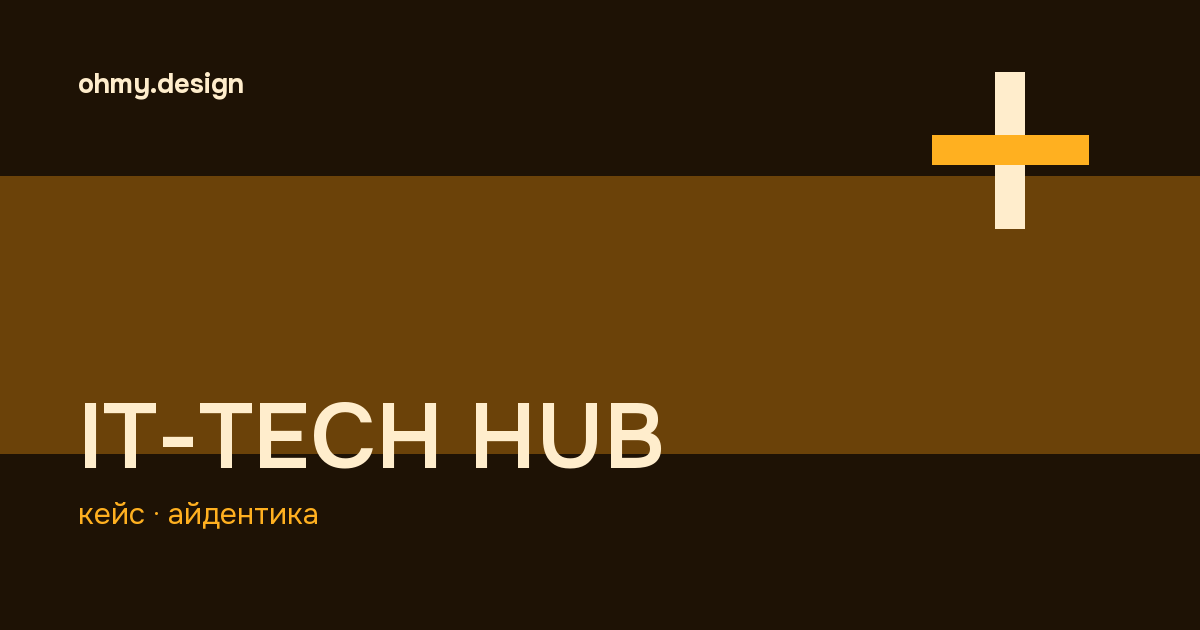
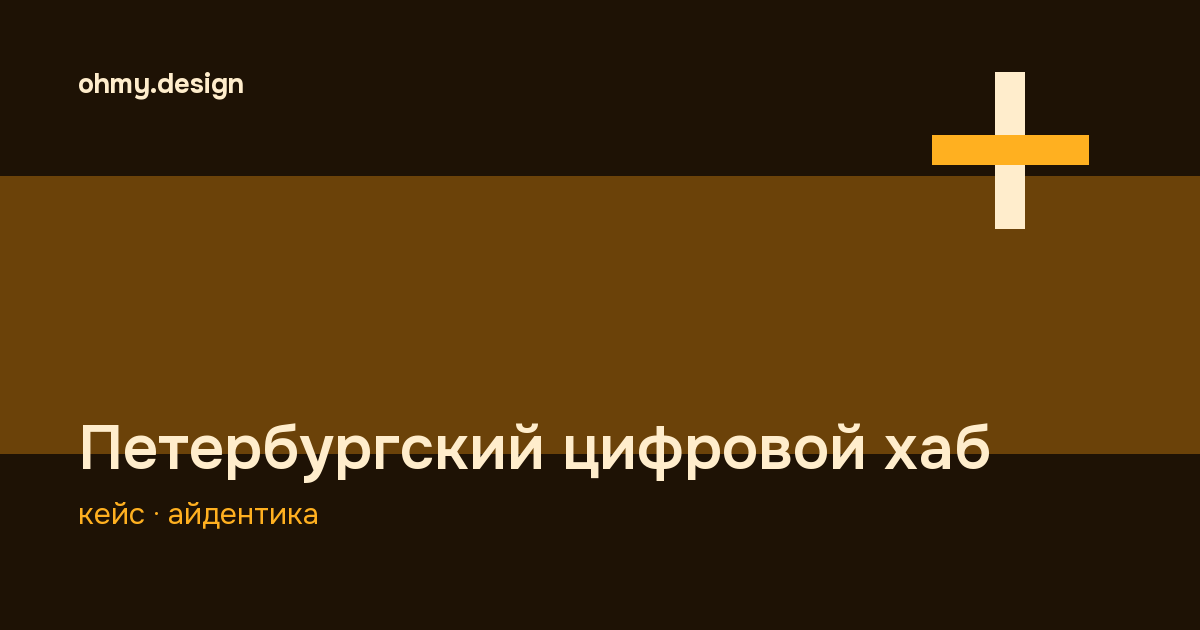
Кейс цифрового хаба: реальные фото с площадки, переименование в Петербургский цифровой хаб
IT-TECH HUB переименован в Петербургский цифровой хаб везде на сайте — тот же
форум сменил имя в 2026 году. Добавлена секция «носители» с пятью фото
с площадки (пресс-волл, навигация, панельная дискуссия, экран трансляции),
итог кейса дополнен подтверждённым фактом: стиль пережил смену имени форума
без пересборки.

Changed region(s): [[0.0617, 0.6333, 0.8325, 0.7841]]

diff --git a/исходники/ohmy-case-it-tech-hub.html b/исходники/ohmy-case-it-tech-hub.html
@@ -21,7 +21,7 @@
 
 <meta charset="utf-8">
 <meta name="viewport" content="width=device-width, initial-scale=1">
-<title>IT-TECH HUB — логотип и фирменный стиль B2B-форума</title>
+<title>Петербургский цифровой хаб — логотип и фирменный стиль B2B-форума</title>
 <meta name="description" content="Логотип и фирменный стиль Петербургского цифрового хаба — B2B-форума для лидеров цифровой трансформации. Кейс студии ohmy.design.">
 <link rel="preconnect" href="https://fonts.googleapis.com">
 <link rel="preconnect" href="https://fonts.gstatic.com" crossorigin>
@@ -731,15 +731,15 @@ footer.site-foot{display:block}
 <meta property="og:type" content="website">
 <meta property="og:site_name" content="ohmy.design">
 <meta property="og:locale" content="ru_RU">
-<meta property="og:title" content="IT-TECH HUB — логотип и фирменный стиль B2B-форума">
+<meta property="og:title" content="Петербургский цифровой хаб — логотип и фирменный стиль B2B-форума">
 <meta property="og:description" content="Логотип и фирменный стиль Петербургского цифрового хаба — B2B-форума для лидеров цифровой трансформации. Кейс студии ohmy.design.">
 <meta property="og:url" content="https://ohmy.design/projects/it-tech-hub">
 <meta property="og:image" content="https://ohmy.design/og/projects-it-tech-hub.png">
 <meta property="og:image:width" content="1200">
 <meta property="og:image:height" content="630">
-<meta property="og:image:alt" content="IT-TECH HUB — логотип и фирменный стиль B2B-форума">
+<meta property="og:image:alt" content="Петербургский цифровой хаб — логотип и фирменный стиль B2B-форума">
 <meta name="twitter:card" content="summary_large_image">
-<meta name="twitter:title" content="IT-TECH HUB — логотип и фирменный стиль B2B-форума">
+<meta name="twitter:title" content="Петербургский цифровой хаб — логотип и фирменный стиль B2B-форума">
 <meta name="twitter:description" content="Логотип и фирменный стиль Петербургского цифрового хаба — B2B-форума для лидеров цифровой трансформации. Кейс студии ohmy.design.">
 <meta name="twitter:image" content="https://ohmy.design/og/projects-it-tech-hub.png">
 <link rel="icon" href="/favicon.svg" type="image/svg+xml">
@@ -780,13 +780,13 @@ footer.site-foot{display:block}
 <div class="menu" id="menu"></div>
 
 <header class="cover">
-  <img src="img/lib/43484f614db8f293893f-3731.jpg" alt="IT-TECH HUB">
+  <img src="img/lib/43484f614db8f293893f-3731.jpg" alt="Петербургский цифровой хаб">
   <div class="cover-in">
     <a class="crumb" href="ohmy-projects.html">← все проекты</a>
-    <h1>IT-TECH&nbsp;HUB</h1>
+    <h1>Петербургский цифровой&nbsp;хаб</h1>
     <div class="cover-tags">
       <span class="tag on">айдентика</span>
-      <span class="tag">2025</span>
+      <span class="tag">2025–2026</span>
     </div>
   </div>
 </header>
@@ -795,7 +795,7 @@ footer.site-foot{display:block}
   <div class="fact"><span>клиент</span><b>Экспофорум, Петербургский цифровой&nbsp;хаб</b></div>
   <div class="fact"><span>направление</span><b>Айдентика</b></div>
   <div class="fact"><span>роль студии</span><b>Знак, стиль, носители</b></div>
-  <div class="fact"><span>особенность</span><b>Стиль живёт год: от&nbsp;анонса до&nbsp;пост-релиза</b></div>
+  <div class="fact"><span>особенность</span><b>Форум сменил имя в&nbsp;2026&nbsp;— знак и&nbsp;стиль перешли без&nbsp;пересборки</b></div>
 </div>
 
 <section id="task">
@@ -835,16 +835,31 @@ footer.site-foot{display:block}
   </div>
 </section>
 
+<section id="shots">
+  <div class="sec-head rv">
+    <div><span class="sec-idx">03 — носители</span><h2 class="sec-title">как это живёт</h2></div>
+    <span class="mono">5 с площадки</span>
+  </div>
+
+  <div class="frames">
+    <figure class="frame rv full"><div class="frame-i"><img src="img/cases/it-tech-hub/hall.jpg" alt="Пресс-волл «Петербургского цифрового хаба» на главной сцене" loading="lazy"></div><figcaption>Пресс-волл на главной сцене<i>фото</i></figcaption></figure>
+    <figure class="frame rv"><div class="frame-i"><img src="img/cases/it-tech-hub/signage.jpg" alt="Указатель «Центр деловых контактов» с логотипом хаба" loading="lazy"></div><figcaption>Навигационная стойка на входе<i>фото</i></figcaption></figure>
+    <figure class="frame rv"><div class="frame-i"><img src="img/cases/it-tech-hub/wayfinding.jpg" alt="Табличка навигации к залу Е6 с логотипом хаба" loading="lazy"></div><figcaption>Указатель к залу<i>фото</i></figcaption></figure>
+    <figure class="frame rv"><div class="frame-i"><img src="img/cases/it-tech-hub/session.jpg" alt="Панельная дискуссия на фоне пресс-волла форума" loading="lazy"></div><figcaption>Панельная дискуссия<i>фото</i></figcaption></figure>
+    <figure class="frame rv"><div class="frame-i"><img src="img/cases/it-tech-hub/screen.jpg" alt="Экран трансляции с темой круглого стола" loading="lazy"></div><figcaption>Экран трансляции в зале<i>фото</i></figcaption></figure>
+  </div>
+</section>
+
 <section id="result">
   <div class="sec-head rv">
-    <div><span class="sec-idx">03 — итог</span><h2 class="sec-title">результат</h2></div>
+    <div><span class="sec-idx">04 — итог</span><h2 class="sec-title">результат</h2></div>
     <span class="mono">что можно проверить</span>
   </div>
 
   <div class="outcome rv">
     <div><span>01</span><div>Знак читается и&nbsp;в&nbsp;иконке рассылки, и&nbsp;на&nbsp;баннере во&nbsp;всю стену площадки.</div></div>
     <div><span>02</span><div>Носители собраны системой: навигация, бейджи, стенды, шаблоны документов.</div></div>
-    <div><span>03</span><div>Стиль переходит с&nbsp;года на&nbsp;год&nbsp;— меняется только&nbsp;дата.</div></div>
+    <div><span>03</span><div>В&nbsp;2026&nbsp;форум сменил имя на&nbsp;«Петербургский цифровой хаб»&nbsp;— знак и&nbsp;стиль перешли без&nbsp;пересборки.</div></div>
   </div>
 </section>
 
@@ -863,7 +878,7 @@ footer.site-foot{display:block}
 
 <section class="cta" id="cta">
   <div class="sec-head rv">
-    <div><span class="sec-idx">04 — связь</span><h2 class="sec-title">будем на связи</h2></div>
+    <div><span class="sec-idx">05 — связь</span><h2 class="sec-title">будем на связи</h2></div>
     <span class="mono">похожая задача?</span>
   </div>
   <div class="cta-contacts rv">

diff --git a/docs/projects/it-tech-hub/index.html b/docs/projects/it-tech-hub/index.html
@@ -21,7 +21,7 @@
 
 <meta charset="utf-8">
 <meta name="viewport" content="width=device-width, initial-scale=1">
-<title>IT-TECH HUB — логотип и фирменный стиль B2B-форума</title>
+<title>Петербургский цифровой хаб — логотип и фирменный стиль B2B-форума</title>
 <meta name="description" content="Логотип и фирменный стиль Петербургского цифрового хаба — B2B-форума для лидеров цифровой трансформации. Кейс студии ohmy.design.">
 <link rel="preconnect" href="https://fonts.googleapis.com">
 <link rel="preconnect" href="https://fonts.gstatic.com" crossorigin>
@@ -731,15 +731,15 @@ footer.site-foot{display:block}
 <meta property="og:type" content="website">
 <meta property="og:site_name" content="ohmy.design">
 <meta property="og:locale" content="ru_RU">
-<meta property="og:title" content="IT-TECH HUB — логотип и фирменный стиль B2B-форума">
+<meta property="og:title" content="Петербургский цифровой хаб — логотип и фирменный стиль B2B-форума">
 <meta property="og:description" content="Логотип и фирменный стиль Петербургского цифрового хаба — B2B-форума для лидеров цифровой трансформации. Кейс студии ohmy.design.">
 <meta property="og:url" content="https://ohmy.design/projects/it-tech-hub">
 <meta property="og:image" content="https://ohmy.design/og/projects-it-tech-hub.png">
 <meta property="og:image:width" content="1200">
 <meta property="og:image:height" content="630">
-<meta property="og:image:alt" content="IT-TECH HUB — логотип и фирменный стиль B2B-форума">
+<meta property="og:image:alt" content="Петербургский цифровой хаб — логотип и фирменный стиль B2B-форума">
 <meta name="twitter:card" content="summary_large_image">
-<meta name="twitter:title" content="IT-TECH HUB — логотип и фирменный стиль B2B-форума">
+<meta name="twitter:title" content="Петербургский цифровой хаб — логотип и фирменный стиль B2B-форума">
 <meta name="twitter:description" content="Логотип и фирменный стиль Петербургского цифрового хаба — B2B-форума для лидеров цифровой трансформации. Кейс студии ohmy.design.">
 <meta name="twitter:image" content="https://ohmy.design/og/projects-it-tech-hub.png">
 <link rel="icon" href="/favicon.svg" type="image/svg+xml">
@@ -780,13 +780,13 @@ footer.site-foot{display:block}
 <div class="menu" id="menu"></div>
 
 <header class="cover">
-  <img src="/img/lib/43484f614db8f293893f-3731.jpg" alt="IT-TECH HUB">
+  <img src="/img/lib/43484f614db8f293893f-3731.jpg" alt="Петербургский цифровой хаб">
   <div class="cover-in">
     <a class="crumb" href="/projects/">← все проекты</a>
-    <h1>IT-TECH&nbsp;HUB</h1>
+    <h1>Петербургский цифровой&nbsp;хаб</h1>
     <div class="cover-tags">
       <span class="tag on">айдентика</span>
-      <span class="tag">2025</span>
+      <span class="tag">2025–2026</span>
     </div>
   </div>
 </header>
@@ -795,7 +795,7 @@ footer.site-foot{display:block}
   <div class="fact"><span>клиент</span><b>Экспофорум, Петербургский цифровой&nbsp;хаб</b></div>
   <div class="fact"><span>направление</span><b>Айдентика</b></div>
   <div class="fact"><span>роль студии</span><b>Знак, стиль, носители</b></div>
-  <div class="fact"><span>особенность</span><b>Стиль живёт год: от&nbsp;анонса до&nbsp;пост-релиза</b></div>
+  <div class="fact"><span>особенность</span><b>Форум сменил имя в&nbsp;2026&nbsp;— знак и&nbsp;стиль перешли без&nbsp;пересборки</b></div>
 </div>
 
 <section id="task">
@@ -835,16 +835,31 @@ footer.site-foot{display:block}
   </div>
 </section>
 
+<section id="shots">
+  <div class="sec-head rv">
+    <div><span class="sec-idx">03 — носители</span><h2 class="sec-title">как это живёт</h2></div>
+    <span class="mono">5 с площадки</span>
+  </div>
+
+  <div class="frames">
+    <figure class="frame rv full"><div class="frame-i"><img src="/img/cases/it-tech-hub/hall.jpg" alt="Пресс-волл «Петербургского цифрового хаба» на главной сцене" loading="lazy"></div><figcaption>Пресс-волл на главной сцене<i>фото</i></figcaption></figure>
+    <figure class="frame rv"><div class="frame-i"><img src="/img/cases/it-tech-hub/signage.jpg" alt="Указатель «Центр деловых контактов» с логотипом хаба" loading="lazy"></div><figcaption>Навигационная стойка на входе<i>фото</i></figcaption></figure>
+    <figure class="frame rv"><div class="frame-i"><img src="/img/cases/it-tech-hub/wayfinding.jpg" alt="Табличка навигации к залу Е6 с логотипом хаба" loading="lazy"></div><figcaption>Указатель к залу<i>фото</i></figcaption></figure>
+    <figure class="frame rv"><div class="frame-i"><img src="/img/cases/it-tech-hub/session.jpg" alt="Панельная дискуссия на фоне пресс-волла форума" loading="lazy"></div><figcaption>Панельная дискуссия<i>фото</i></figcaption></figure>
+    <figure class="frame rv"><div class="frame-i"><img src="/img/cases/it-tech-hub/screen.jpg" alt="Экран трансляции с темой круглого стола" loading="lazy"></div><figcaption>Экран трансляции в зале<i>фото</i></figcaption></figure>
+  </div>
+</section>
+
 <section id="result">
   <div class="sec-head rv">
-    <div><span class="sec-idx">03 — итог</span><h2 class="sec-title">результат</h2></div>
+    <div><span class="sec-idx">04 — итог</span><h2 class="sec-title">результат</h2></div>
     <span class="mono">что можно проверить</span>
   </div>
 
   <div class="outcome rv">
     <div><span>01</span><div>Знак читается и&nbsp;в&nbsp;иконке рассылки, и&nbsp;на&nbsp;баннере во&nbsp;всю стену площадки.</div></div>
     <div><span>02</span><div>Носители собраны системой: навигация, бейджи, стенды, шаблоны документов.</div></div>
-    <div><span>03</span><div>Стиль переходит с&nbsp;года на&nbsp;год&nbsp;— меняется только&nbsp;дата.</div></div>
+    <div><span>03</span><div>В&nbsp;2026&nbsp;форум сменил имя на&nbsp;«Петербургский цифровой хаб»&nbsp;— знак и&nbsp;стиль перешли без&nbsp;пересборки.</div></div>
   </div>
 </section>
 
@@ -863,7 +878,7 @@ footer.site-foot{display:block}
 
 <section class="cta" id="cta">
   <div class="sec-head rv">
-    <div><span class="sec-idx">04 — связь</span><h2 class="sec-title">будем на связи</h2></div>
+    <div><span class="sec-idx">05 — связь</span><h2 class="sec-title">будем на связи</h2></div>
     <span class="mono">похожая задача?</span>
   </div>
   <div class="cta-contacts rv">

diff --git a/исходники/ohmy-site.html b/исходники/ohmy-site.html
@@ -852,8 +852,8 @@ footer.site-foot{display:block}
       <div class="proj-info"><h3>АБП2Б</h3><span class="proj-tag">креатив + веб</span></div></a>
     <a class="proj rv" href="ohmy-case-evromed.html"><img src="img/lib/421009901-6139.jpg" alt="ЕвроМед">
       <div class="proj-info"><h3>ЕвроМед</h3><span class="proj-tag">веб + айдентика</span></div></a>
-    <a class="proj rv" href="ohmy-case-it-tech-hub.html"><img src="img/lib/43484f614db8f293893f-3731.jpg" alt="IT Hub">
-      <div class="proj-info"><h3>ЦДК · IT Hub</h3><span class="proj-tag">веб</span></div></a>
+    <a class="proj rv" href="ohmy-case-it-tech-hub.html"><img src="img/lib/43484f614db8f293893f-3731.jpg" alt="Петербургский цифровой хаб">
+      <div class="proj-info"><h3>ЦДК · Цифровой хаб</h3><span class="proj-tag">веб</span></div></a>
     <a class="proj rv" href="ohmy-case-tish.html"><img src="img/lib/49060229-3435.jpg" alt="TISH">
       <div class="proj-info"><h3>TISH</h3><span class="proj-tag">арт-дирекшн</span></div></a>
     <a class="proj rv" href="ohmy-case-urbex.html"><img src="img/lib/18217832-6438.jpg" alt="URBEX">

diff --git a/docs/index.html b/docs/index.html
@@ -852,8 +852,8 @@ footer.site-foot{display:block}
       <div class="proj-info"><h3>АБП2Б</h3><span class="proj-tag">креатив + веб</span></div></a>
     <a class="proj rv" href="/projects/evromed/"><img src="/img/lib/421009901-6139.jpg" alt="ЕвроМед">
       <div class="proj-info"><h3>ЕвроМед</h3><span class="proj-tag">веб + айдентика</span></div></a>
-    <a class="proj rv" href="/projects/it-tech-hub/"><img src="/img/lib/43484f614db8f293893f-3731.jpg" alt="IT Hub">
-      <div class="proj-info"><h3>ЦДК · IT Hub</h3><span class="proj-tag">веб</span></div></a>
+    <a class="proj rv" href="/projects/it-tech-hub/"><img src="/img/lib/43484f614db8f293893f-3731.jpg" alt="Петербургский цифровой хаб">
+      <div class="proj-info"><h3>ЦДК · Цифровой хаб</h3><span class="proj-tag">веб</span></div></a>
     <a class="proj rv" href="/projects/tish/"><img src="/img/lib/49060229-3435.jpg" alt="TISH">
       <div class="proj-info"><h3>TISH</h3><span class="proj-tag">арт-дирекшн</span></div></a>
     <a class="proj rv" href="/projects/urbex/"><img src="/img/lib/18217832-6438.jpg" alt="URBEX">

diff --git a/исходники/ohmy-brand.html b/исходники/ohmy-brand.html
@@ -943,8 +943,8 @@ footer.site-foot{display:block}
 
   <div class="cases">
     <a class="case-c rv" href="ohmy-projects.html">
-      <div class="case-img"><img loading="lazy" src="img/lib/43484f614db8f293893f-3731.jpg" alt="IT-TECH HUB"></div>
-      <h3>IT-TECH HUB</h3>
+      <div class="case-img"><img loading="lazy" src="img/lib/43484f614db8f293893f-3731.jpg" alt="Петербургский цифровой хаб"></div>
+      <h3>Петербургский цифровой хаб</h3>
       <p>Логотип и фирменный стиль B2B-форума для лидеров цифровой трансформации</p></a>
     <a class="case-c rv" href="ohmy-projects.html">
       <div class="case-img"><img loading="lazy" src="img/lib/cover-slide-1-6333.jpg" alt="ГЦК"></div>

diff --git a/docs/brand/index.html b/docs/brand/index.html
@@ -943,8 +943,8 @@ footer.site-foot{display:block}
 
   <div class="cases">
     <a class="case-c rv" href="/projects/">
-      <div class="case-img"><img loading="lazy" src="/img/lib/43484f614db8f293893f-3731.jpg" alt="IT-TECH HUB"></div>
-      <h3>IT-TECH HUB</h3>
+      <div class="case-img"><img loading="lazy" src="/img/lib/43484f614db8f293893f-3731.jpg" alt="Петербургский цифровой хаб"></div>
+      <h3>Петербургский цифровой хаб</h3>
       <p>Логотип и фирменный стиль B2B-форума для лидеров цифровой трансформации</p></a>
     <a class="case-c rv" href="/projects/">
       <div class="case-img"><img loading="lazy" src="/img/lib/cover-slide-1-6333.jpg" alt="ГЦК"></div>

diff --git a/исходники/ohmy-projects.html b/исходники/ohmy-projects.html
@@ -740,7 +740,7 @@ const PROJECTS = [
  d:'Редизайн сайта, логотип и фирменный стиль сети многопрофильных медицинских центров',
  img:'img/lib/421009901-6139.jpg',
  cs:'ohmy-case-evromed.html'},
-{y:2025,n:'IT-TECH HUB',s:'event',t:['brand'],
+{y:2025,n:'Петербургский цифровой хаб',s:'event',t:['brand'],
  d:'Логотип и фирменный стиль B2B-форума для лидеров цифровой трансформации',
  img:'img/lib/43484f614db8f293893f-3731.jpg',
  cs:'ohmy-case-it-tech-hub.html'},

diff --git a/docs/projects/index.html b/docs/projects/index.html
@@ -740,7 +740,7 @@ const PROJECTS = [
  d:'Редизайн сайта, логотип и фирменный стиль сети многопрофильных медицинских центров',
  img:'/img/lib/421009901-6139.jpg',
  cs:'/projects/evromed/'},
-{y:2025,n:'IT-TECH HUB',s:'event',t:['brand'],
+{y:2025,n:'Петербургский цифровой хаб',s:'event',t:['brand'],
  d:'Логотип и фирменный стиль B2B-форума для лидеров цифровой трансформации',
  img:'/img/lib/43484f614db8f293893f-3731.jpg',
  cs:'/projects/it-tech-hub/'},

diff --git a/docs/projects/evromed/index.html b/docs/projects/evromed/index.html
@@ -870,7 +870,7 @@ footer.site-foot{display:block}
   <img src="/img/lib/43484f614db8f293893f-3731.jpg" alt="" loading="lazy">
   <div class="next-in">
     <span class="mono">следующий проект</span>
-    <h2>IT-TECH HUB <span class="next-arrow">↗</span></h2>
+    <h2>Петербургский цифровой хаб <span class="next-arrow">↗</span></h2>
   </div>
 </a>
 

diff --git a/исходники/ohmy-case-evromed.html b/исходники/ohmy-case-evromed.html
@@ -870,7 +870,7 @@ footer.site-foot{display:block}
   <img src="img/lib/43484f614db8f293893f-3731.jpg" alt="" loading="lazy">
   <div class="next-in">
     <span class="mono">следующий проект</span>
-    <h2>IT-TECH HUB <span class="next-arrow">↗</span></h2>
+    <h2>Петербургский цифровой хаб <span class="next-arrow">↗</span></h2>
   </div>
 </a>
 

diff --git a/cases.py b/cases.py
@@ -197,16 +197,16 @@ CASES = [
  'tail':'Сайт собран так, чтобы клиника могла добавлять направления и врачей сама — '
         'без пересборки структуры.'},
 
-{'slug':'it-tech-hub','n':'IT-TECH HUB','y':2025,'s':'event','t':['brand'],
+{'slug':'it-tech-hub','n':'Петербургский цифровой хаб','y':2025,'s':'event','t':['brand'],
  'img':'img/lib/43484f614db8f293893f-3731.jpg','url':'https://cdk.expoforum.ru/ithub',
- 'title':'IT-TECH HUB — логотип и фирменный стиль B2B-форума',
+ 'title':'Петербургский цифровой хаб — логотип и фирменный стиль B2B-форума',
  'desc':'Логотип и фирменный стиль Петербургского цифрового хаба — B2B-форума '
         'для лидеров цифровой трансформации. Кейс студии ohmy.design.',
- 'tags':['айдентика','2025'],
+ 'tags':['айдентика','2025–2026'],
  'facts':[('клиент','Экспофорум, Петербургский цифровой хаб'),
           ('направление','Айдентика'),
           ('роль студии','Знак, стиль, носители'),
-          ('особенность','Стиль живёт год: от анонса до пост-релиза')],
+          ('особенность','Форум сменил имя в 2026 — знак и стиль перешли без пересборки')],
  'lead':'Площадка, где поставщики ИТ-решений встречаются с заказчиками. '
         '<em>Форуму нужен был знак, который выдержит год носителей</em> — '
         'от баннера до бейджа и презентации на экране.',
@@ -230,9 +230,20 @@ CASES = [
           ('Оставили запас на смену года',
            'Год в макетах — сменная величина. Следующий форум переиспользует '
            'ту же систему без пересборки.')],
+ 'shots':[('hall.jpg','Пресс-волл «Петербургского цифрового хаба» на главной сцене',
+           'Пресс-волл на главной сцене','фото','full'),
+          ('signage.jpg','Указатель «Центр деловых контактов» с логотипом хаба',
+           'Навигационная стойка на входе','фото',''),
+          ('wayfinding.jpg','Табличка навигации к залу Е6 с логотипом хаба',
+           'Указатель к залу','фото',''),
+          ('session.jpg','Панельная дискуссия на фоне пресс-волла форума',
+           'Панельная дискуссия','фото',''),
+          ('screen.jpg','Экран трансляции с темой круглого стола',
+           'Экран трансляции в зале','фото','')],
  'out':['Знак читается и в иконке рассылки, и на баннере во всю стену площадки.',
         'Носители собраны системой: навигация, бейджи, стенды, шаблоны документов.',
-        'Стиль переходит с года на год — меняется только дата.']},
+        'В 2026 форум сменил имя на «Петербургский цифровой хаб» — знак и стиль '
+        'перешли без пересборки.']},
 
 {'slug':'urbex','n':'URBEX','y':2025,'s':'city','t':['web','brand'],
  'img':'img/lib/18217832-6438.jpg','url':None,
